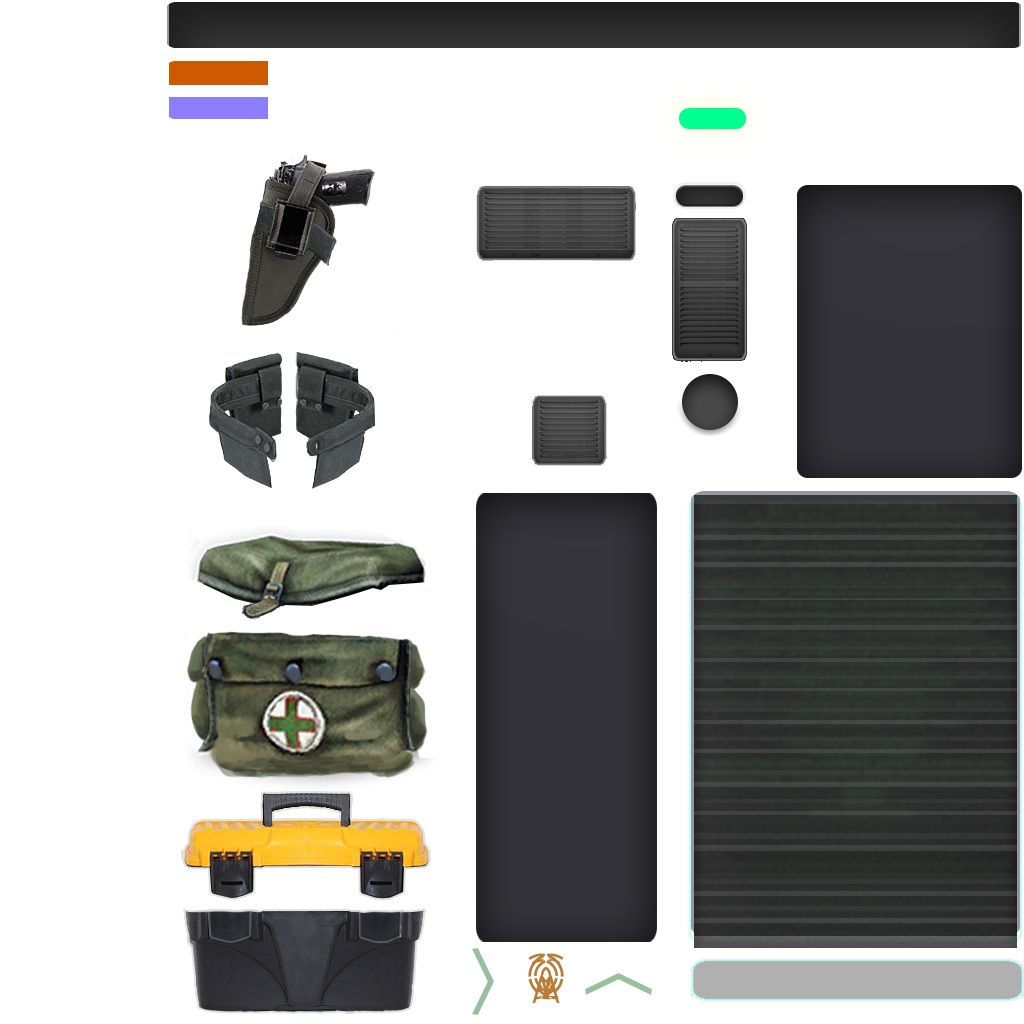
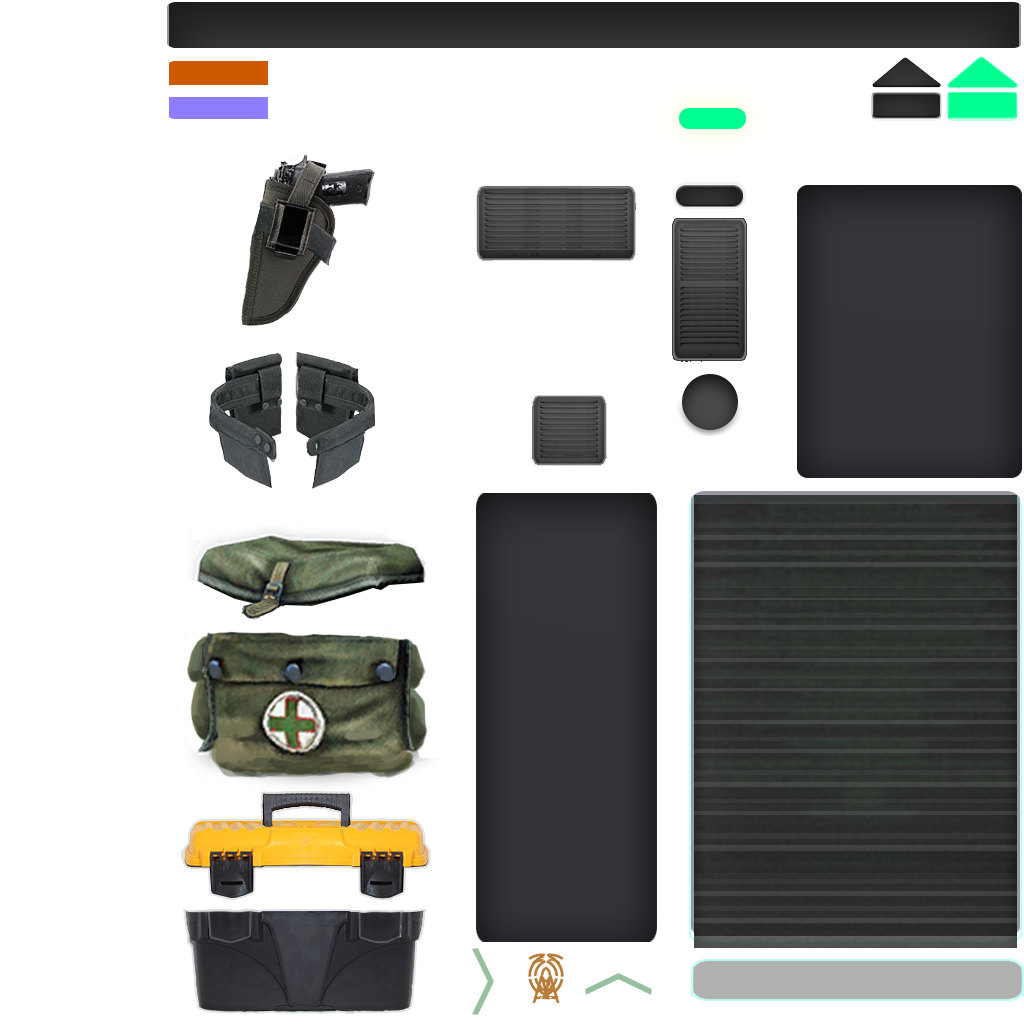
Different quickuse button sprite for items that cannot be unequipped without dropping them (diving suits, artifacts, crates, etc)

Changed region(s): [[0.8438, 0.0312, 1.0, 0.125]]

diff --git a/Barotrauma/BarotraumaClient/Source/Items/CharacterInventory.cs b/Barotrauma/BarotraumaClient/Source/Items/CharacterInventory.cs
@@ -32,11 +32,6 @@ namespace Barotrauma
             UseTreatment
         }
 
-        private static Sprite toggleArrow;
-
-        //which slot is the toggle arrow drawn above
-        private int toggleArrowSlotIndex;
-
         private Point screenResolution;
 
         public Vector2[] SlotPositions;
@@ -52,25 +47,11 @@ namespace Barotrauma
                 SetSlotPositions(layout);
             }
         }
+        public bool Hidden { get; set; }
 
-        private bool hidden;
-        public bool Hidden
-        {
-            get { return hidden; }
-            set { hidden = value; }
-        }
-        
         partial void InitProjSpecific(XElement element)
         {
-            if (toggleArrow == null)
-            {
-                toggleArrow = new Sprite("Content/UI/inventoryAtlas.png", new Rectangle(585, 973, 67, 23), null);
-                toggleArrow.Origin = toggleArrow.size / 2;
-            }
-
-            toggleArrowSlotIndex = MathHelper.Clamp(element.GetAttributeInt("arrowslot", 0), 0, capacity - 1);
-
-            hidden = true;
+            Hidden = true;
 
             SlotPositions = new Vector2[SlotTypes.Length];
             CurrentLayout = Layout.Default;
@@ -702,22 +683,27 @@ namespace Barotrauma
                     highlightedQuickUseSlot = slots[i];
                 }
 
-                EquipIndicator.Draw(spriteBatch, slots[i].EquipButtonRect.Center.ToVector2(), color, EquipIndicator.size / 2, 0, UIScale);
+                var quickUseIndicator = Items[i].AllowedSlots.Any(a => a == InvSlotType.Any) ?
+                    EquipIndicator : DropIndicator;
+                var quickUseHighlight = Items[i].AllowedSlots.Any(a => a == InvSlotType.Any) ?
+                    EquipIndicatorHighlight : DropIndicatorHighlight;
+
+                quickUseIndicator.Draw(spriteBatch, slots[i].EquipButtonRect.Center.ToVector2(), color, quickUseIndicator.Origin, 0, UIScale);
                 slots[i].QuickUseTimer = Math.Min(slots[i].QuickUseTimer, 1.0f);
                 if (slots[i].QuickUseTimer > 0.0f)
                 {
                     float indicatorFillAmount = character.HasEquippedItem(Items[i]) ? 1.0f - slots[i].QuickUseTimer : slots[i].QuickUseTimer;
-                    EquipIndicatorOn.DrawTiled(spriteBatch,
-                        slots[i].EquipButtonRect.Center.ToVector2() - EquipIndicatorOn.size / 2 * UIScale * 0.85f,
-                        new Vector2((int)(slots[i].EquipButtonRect.Width * indicatorFillAmount * 0.85f), (int)(slots[i].EquipButtonRect.Height * 0.85f)),
+                    quickUseHighlight.DrawTiled(spriteBatch,
+                        slots[i].EquipButtonRect.Center.ToVector2() - quickUseHighlight.Origin * UIScale * 0.85f,
+                        new Vector2(quickUseIndicator.SourceRect.Width * indicatorFillAmount, quickUseIndicator.SourceRect.Height) * UIScale * 0.85f,
                         null,
                         color * 0.9f,
                         null,
-                        new Vector2(slots[i].EquipButtonRect.Width / EquipIndicatorOn.size.X, slots[i].EquipButtonRect.Height / EquipIndicatorOn.size.Y) * 0.85f);
+                        Vector2.One * UIScale * 0.85f);
                 }
                 else if (character.HasEquippedItem(Items[i]))
                 {
-                    EquipIndicatorOn.Draw(spriteBatch, slots[i].EquipButtonRect.Center.ToVector2(), color * 0.9f, EquipIndicatorOn.size / 2, 0, UIScale * 0.85f);
+                    quickUseHighlight.Draw(spriteBatch, slots[i].EquipButtonRect.Center.ToVector2(), color * 0.9f, quickUseHighlight.Origin, 0, UIScale * 0.85f);
                 }
             }
 

diff --git a/Barotrauma/BarotraumaClient/Source/Items/Inventory.cs b/Barotrauma/BarotraumaClient/Source/Items/Inventory.cs
@@ -54,7 +54,7 @@ namespace Barotrauma
 
                 Vector2 equipIndicatorPos = new Vector2(
                     Rect.Center.X - Inventory.EquipIndicator.size.X / 2 * Inventory.UIScale,
-                    Rect.Center.Y + (Rect.Height / 2 + 20 * Inventory.UIScale) * buttonDir - Inventory.EquipIndicator.size.Y / 2 * Inventory.UIScale);
+                    Rect.Center.Y + (Rect.Height / 2 + 25 * Inventory.UIScale) * buttonDir - Inventory.EquipIndicator.size.Y / 2 * Inventory.UIScale);
                 equipIndicatorPos += DrawOffset;
 
                 return new Rectangle(
@@ -128,7 +128,8 @@ namespace Barotrauma
         protected float prevUIScale = UIScale;
 
         protected static Sprite slotSpriteSmall, slotSpriteHorizontal, slotSpriteVertical, slotSpriteRound;
-        public static Sprite EquipIndicator, EquipIndicatorOn;
+        public static Sprite EquipIndicator, EquipIndicatorHighlight;
+        public static Sprite DropIndicator, DropIndicatorHighlight;
 
         public Rectangle BackgroundFrame { get; protected set; }
 
@@ -808,8 +809,12 @@ namespace Barotrauma
                     }
                 }
             }
-            
-            if (GameMain.DebugDraw) GUI.DrawRectangle(spriteBatch, rect, Color.White, false, 0, 1);
+
+            if (GameMain.DebugDraw)
+            {
+                GUI.DrawRectangle(spriteBatch, rect, Color.White, false, 0, 1);
+                GUI.DrawRectangle(spriteBatch, slot.EquipButtonRect, Color.White, false, 0, 1);
+            }
 
             if (slot.HighlightColor != Color.Transparent)
             {

diff --git a/Barotrauma/BarotraumaShared/Source/Items/Inventory.cs b/Barotrauma/BarotraumaShared/Source/Items/Inventory.cs
@@ -42,12 +42,16 @@ namespace Barotrauma
 
             if (slotSpriteSmall == null)
             {
+                //TODO: define these in xml
                 slotSpriteSmall = new Sprite("Content/UI/inventoryAtlas.png", new Rectangle(532, 395, 75, 71), null, 0);
                 slotSpriteVertical = new Sprite("Content/UI/inventoryAtlas.png", new Rectangle(672, 218, 75, 144), null, 0);
                 slotSpriteHorizontal = new Sprite("Content/UI/inventoryAtlas.png", new Rectangle(476, 186, 160, 75), null, 0);
                 slotSpriteRound = new Sprite("Content/UI/inventoryAtlas.png", new Rectangle(681, 373, 58, 64), null, 0);
-                EquipIndicator = new Sprite("Content/UI/inventoryAtlas.png", new Rectangle(673, 182, 73, 27), null, 0);
-                EquipIndicatorOn = new Sprite("Content/UI/inventoryAtlas.png", new Rectangle(679, 108, 67, 21), null, 0);
+
+                EquipIndicator = new Sprite("Content/UI/inventoryAtlas.png", new Rectangle(673, 182, 73, 27), new Vector2(0.5f, 0.5f), 0);
+                EquipIndicatorHighlight = new Sprite("Content/UI/inventoryAtlas.png", new Rectangle(679, 108, 67, 21), new Vector2(0.5f, 0.5f), 0);
+                DropIndicator = new Sprite("Content/UI/inventoryAtlas.png", new Rectangle(870, 55, 73, 66), new Vector2(0.5f, 0.75f), 0);
+                DropIndicatorHighlight = new Sprite("Content/UI/inventoryAtlas.png", new Rectangle(946, 54, 73, 66), new Vector2(0.5f, 0.75f), 0);
             }
 #endif
         }
